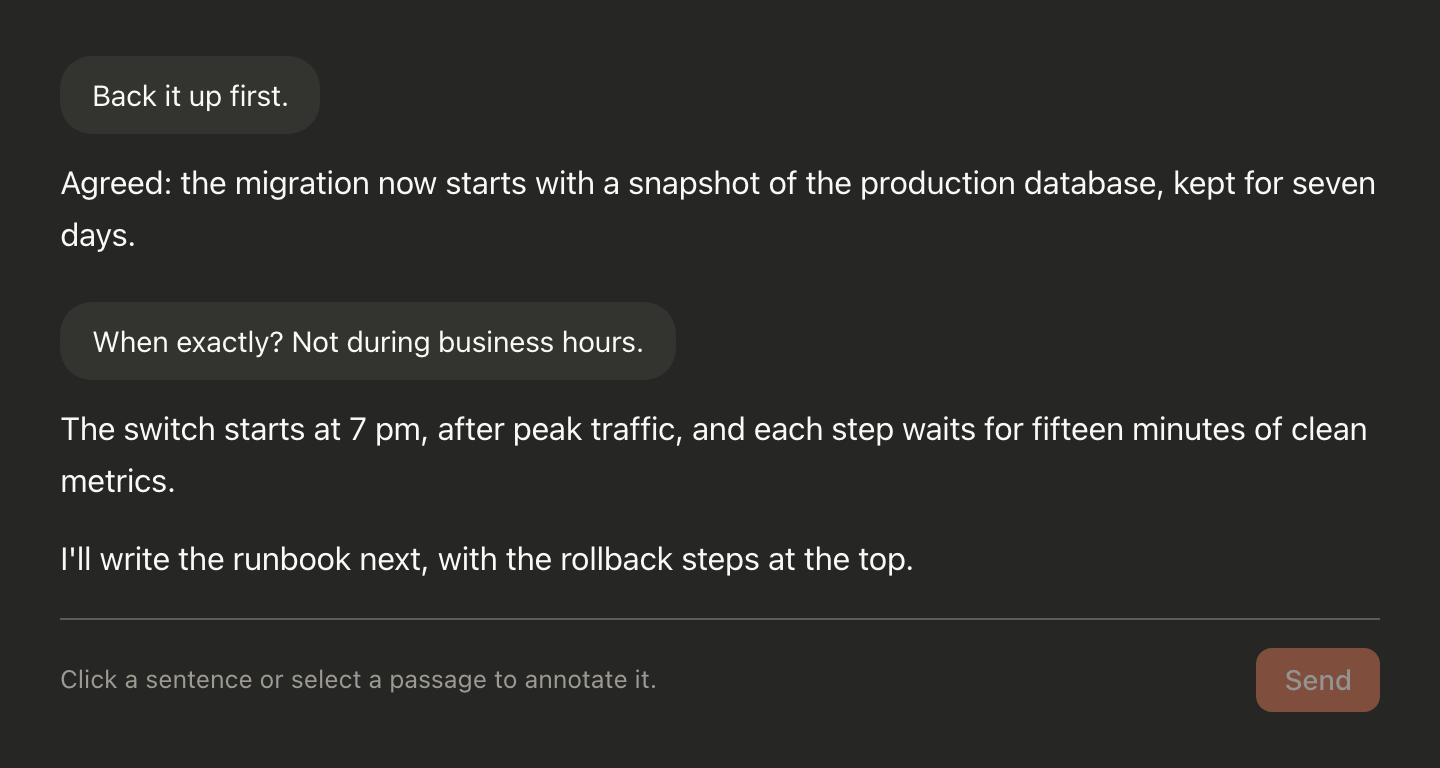
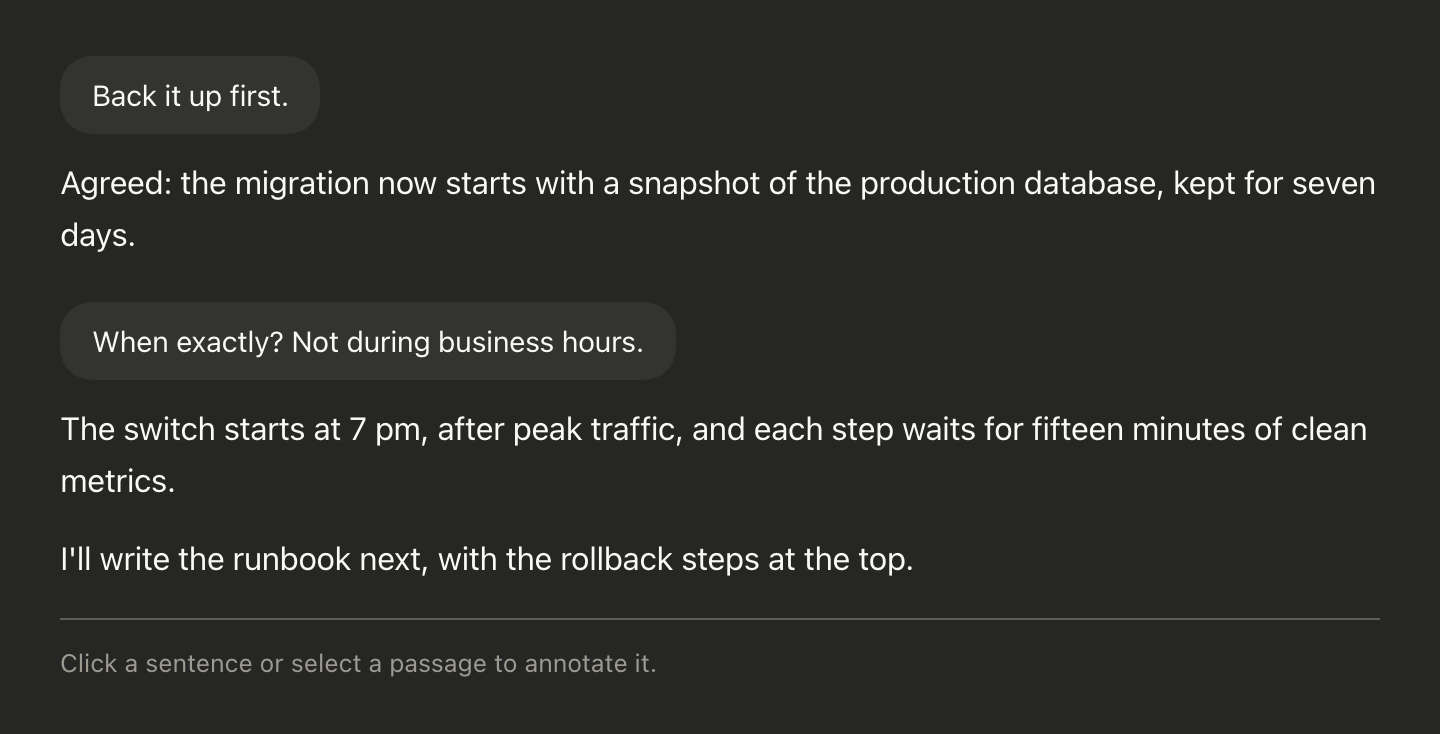
0.19.0: Send hides until a note has text
At 0 annotations Send is hidden, not just disabled; it shows as soon as a
note has text. The mobile tests fill their note before checking where Send
sits. README text and the answer screenshots updated.

diff --git a/packages/ui/e2e/annotate.spec.ts b/packages/ui/e2e/annotate.spec.ts
@@ -109,20 +109,21 @@ test("a table cell's note goes under the table frame, and the markdown alignment
   await expect(frame.locator(".table-wrap .note")).toHaveCount(0);
 });
 
-test("Send stays disabled and the hint shown until a note has text", async ({ page }) => {
+test("Send stays hidden and the hint shown until a note has text", async ({ page }) => {
   const frame = await mount(page);
-  await expect(frame.locator("#send")).toBeDisabled();
+  await expect(frame.locator("#send")).toBeHidden();
   await expect(frame.locator("#hint")).toBeVisible();
   await frame.locator(".phrase", { hasText: "Watch the error rate." }).click();
-  await expect(frame.locator("#send")).toBeDisabled();
+  await expect(frame.locator("#send")).toBeHidden();
   await page.keyboard.type("Why?");
+  await expect(frame.locator("#send")).toBeVisible();
   await expect(frame.locator("#send")).toBeEnabled();
   await expect(frame.locator("#hint")).toBeHidden();
   await page.keyboard.press("Backspace");
   await page.keyboard.press("Backspace");
   await page.keyboard.press("Backspace");
   await page.keyboard.press("Backspace");
-  await expect(frame.locator("#send")).toBeDisabled();
+  await expect(frame.locator("#send")).toBeHidden();
   await expect(frame.locator("#hint")).toBeVisible();
   // Cmd/Ctrl+Enter sends nothing either.
   await page.keyboard.press("ControlOrMeta+Enter");
@@ -214,7 +215,6 @@ test("offers a copy fallback when sending fails", async ({ page }) => {
 
 test("speaks French when the host does", async ({ page }) => {
   const frame = await mount(page, { context: { locale: "fr-FR" } });
-  await expect(frame.locator("#send")).toHaveText("Envoyer");
   await frame.locator(".phrase", { hasText: "Watch the error rate." }).click();
   await expect(frame.locator(".note textarea")).toHaveAttribute("placeholder", "Ta réponse ou ta question");
   await expect(frame.locator(".note-remove")).toHaveText("Retirer");

diff --git a/packages/ui/e2e/mobile.spec.ts b/packages/ui/e2e/mobile.spec.ts
@@ -65,6 +65,7 @@ test("between notes in the sheet, Send stays on screen in a long response", asyn
   const markdown = Array.from({ length: 40 }, (_, i) => `Paragraph ${i + 1} has a sentence.`).join("\n\n");
   const frame = await mount(page, { allowFullscreen: true, args: { markdown } });
   await frame.locator(".phrase", { hasText: "Paragraph 1 has a sentence." }).tap();
+  await frame.locator(".note textarea").fill("Why?");
   await frame.locator(".note .note-done").tap();
   await expect(frame.locator("body")).toHaveClass(/sheet/);
   await expect(frame.locator("#send")).toBeInViewport();
@@ -136,7 +137,9 @@ test("between notes, Send sits above the host's reply field", async ({ page }) =
   const markdown = Array.from({ length: 40 }, (_, i) => `Paragraph ${i + 1} has a sentence.`).join("\n\n");
   const frame = await mount(page, { allowFullscreen: true, args: { markdown }, context: { platform: "mobile" } });
   await frame.locator(".phrase", { hasText: "Paragraph 1 has a sentence." }).tap();
+  await frame.locator(".note textarea").fill("Why?");
   await frame.locator(".note .note-done").tap();
+  await expect(frame.locator("#send")).toBeVisible();
   const gap = await frame.locator("#send").evaluate((send) => window.innerHeight - send.getBoundingClientRect().bottom);
   expect(gap).toBeGreaterThanOrEqual(150);
 });

diff --git a/packages/ui/src/main.ts b/packages/ui/src/main.ts
@@ -583,11 +583,12 @@ function filledCount(): number {
 
 function updateCount() {
   const count = filledCount();
-  // Send says how many notes it sends, and waits for one with text; once there is one, the hint has
-  // done its job.
+  // Send says how many notes it sends, and only shows once a note has text; then the hint has done
+  // its job.
   if (!sending) {
     sendButton.textContent = s.sendCount(count);
     sendButton.disabled = count === 0;
+    sendButton.hidden = count === 0;
   }
   hintLabel.hidden = count > 0;
   updateNoteNav();

diff --git a/README.md b/README.md
@@ -129,9 +129,9 @@ so you never end up with an invisible response.
 
 - Click a sentence, or select a passage of more than two characters, to open a note under its
   paragraph. Click an annotated sentence again to return to its note.
-- Every note hangs on a sentence or a passage; empty notes are ignored. **Send** says how many notes
-  it sends ("Send 2 annotations") and stays disabled until a note has text; the hint goes away once
-  one does.
+- Every note hangs on a sentence or a passage; empty notes are ignored. **Send** only shows once a
+  note has text, and then the hint goes away; from two notes on it says how many it sends ("Send 2
+  annotations").
 - Notes are sent in document order; backticks in quotes become apostrophes.
 - **Send** hands the message to the host. Claude Desktop places it in your message box under a
   caution banner it shows for every message an interactive app proposes; read it and press Enter
